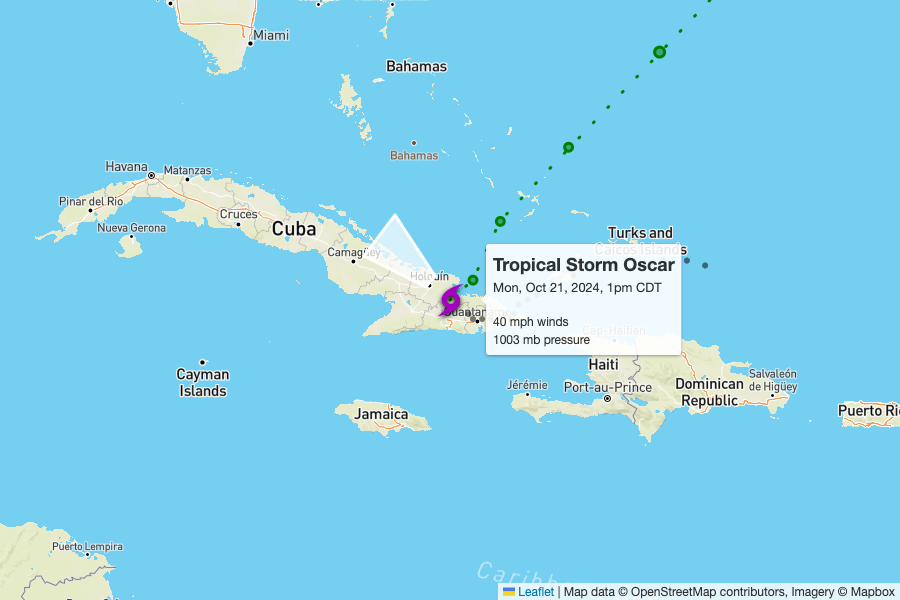
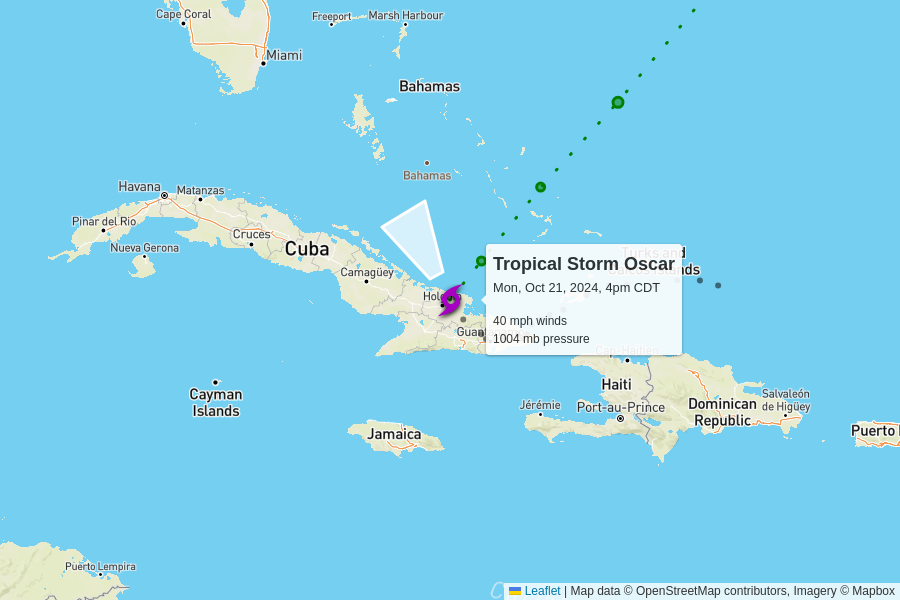
automatic update

diff --git a/docs/index.html b/docs/index.html
@@ -102,7 +102,7 @@
         <td colspan="6" class="storm category-0" >
           <h2>
             Tropical Storm Oscar
-            <p class="updated">last updated <span data-time>2024-10-21T18:00:00.000Z</span></p>
+            <p class="updated">last updated <span data-time>2024-10-21T21:00:00.000Z</span></p>
           </h2>
         </td>
       </tr>
@@ -118,11 +118,11 @@
       <tr>
         <td class="spacer"></td>
         <td>40 mph<br>0 mph since last update</td>
-        <td>1003 mb<br>+2 mb since last update</td>
+        <td>1004 mb<br>+1 mb since last update</td>
         <td>
-          6 mph to the northwest
+          7 mph to the north-northwest
           <br/>
-          <span style="display: inline-block; font-size: 1.5em; transform: rotate(310deg);">↑</span>
+          <span style="display: inline-block; font-size: 1.5em; transform: rotate(330deg);">↑</span>
         </td>
         <td><a href="https://raw.githubusercontent.com/mgwalker/atlantic-hurricanes/main/data/csv/AL162024.csv">AL162024.csv</a></td>
         <td><a href="https://www.nhc.noaa.gov/archive/2024/OSCAR.shtml?">NHC advisories</a></td>
